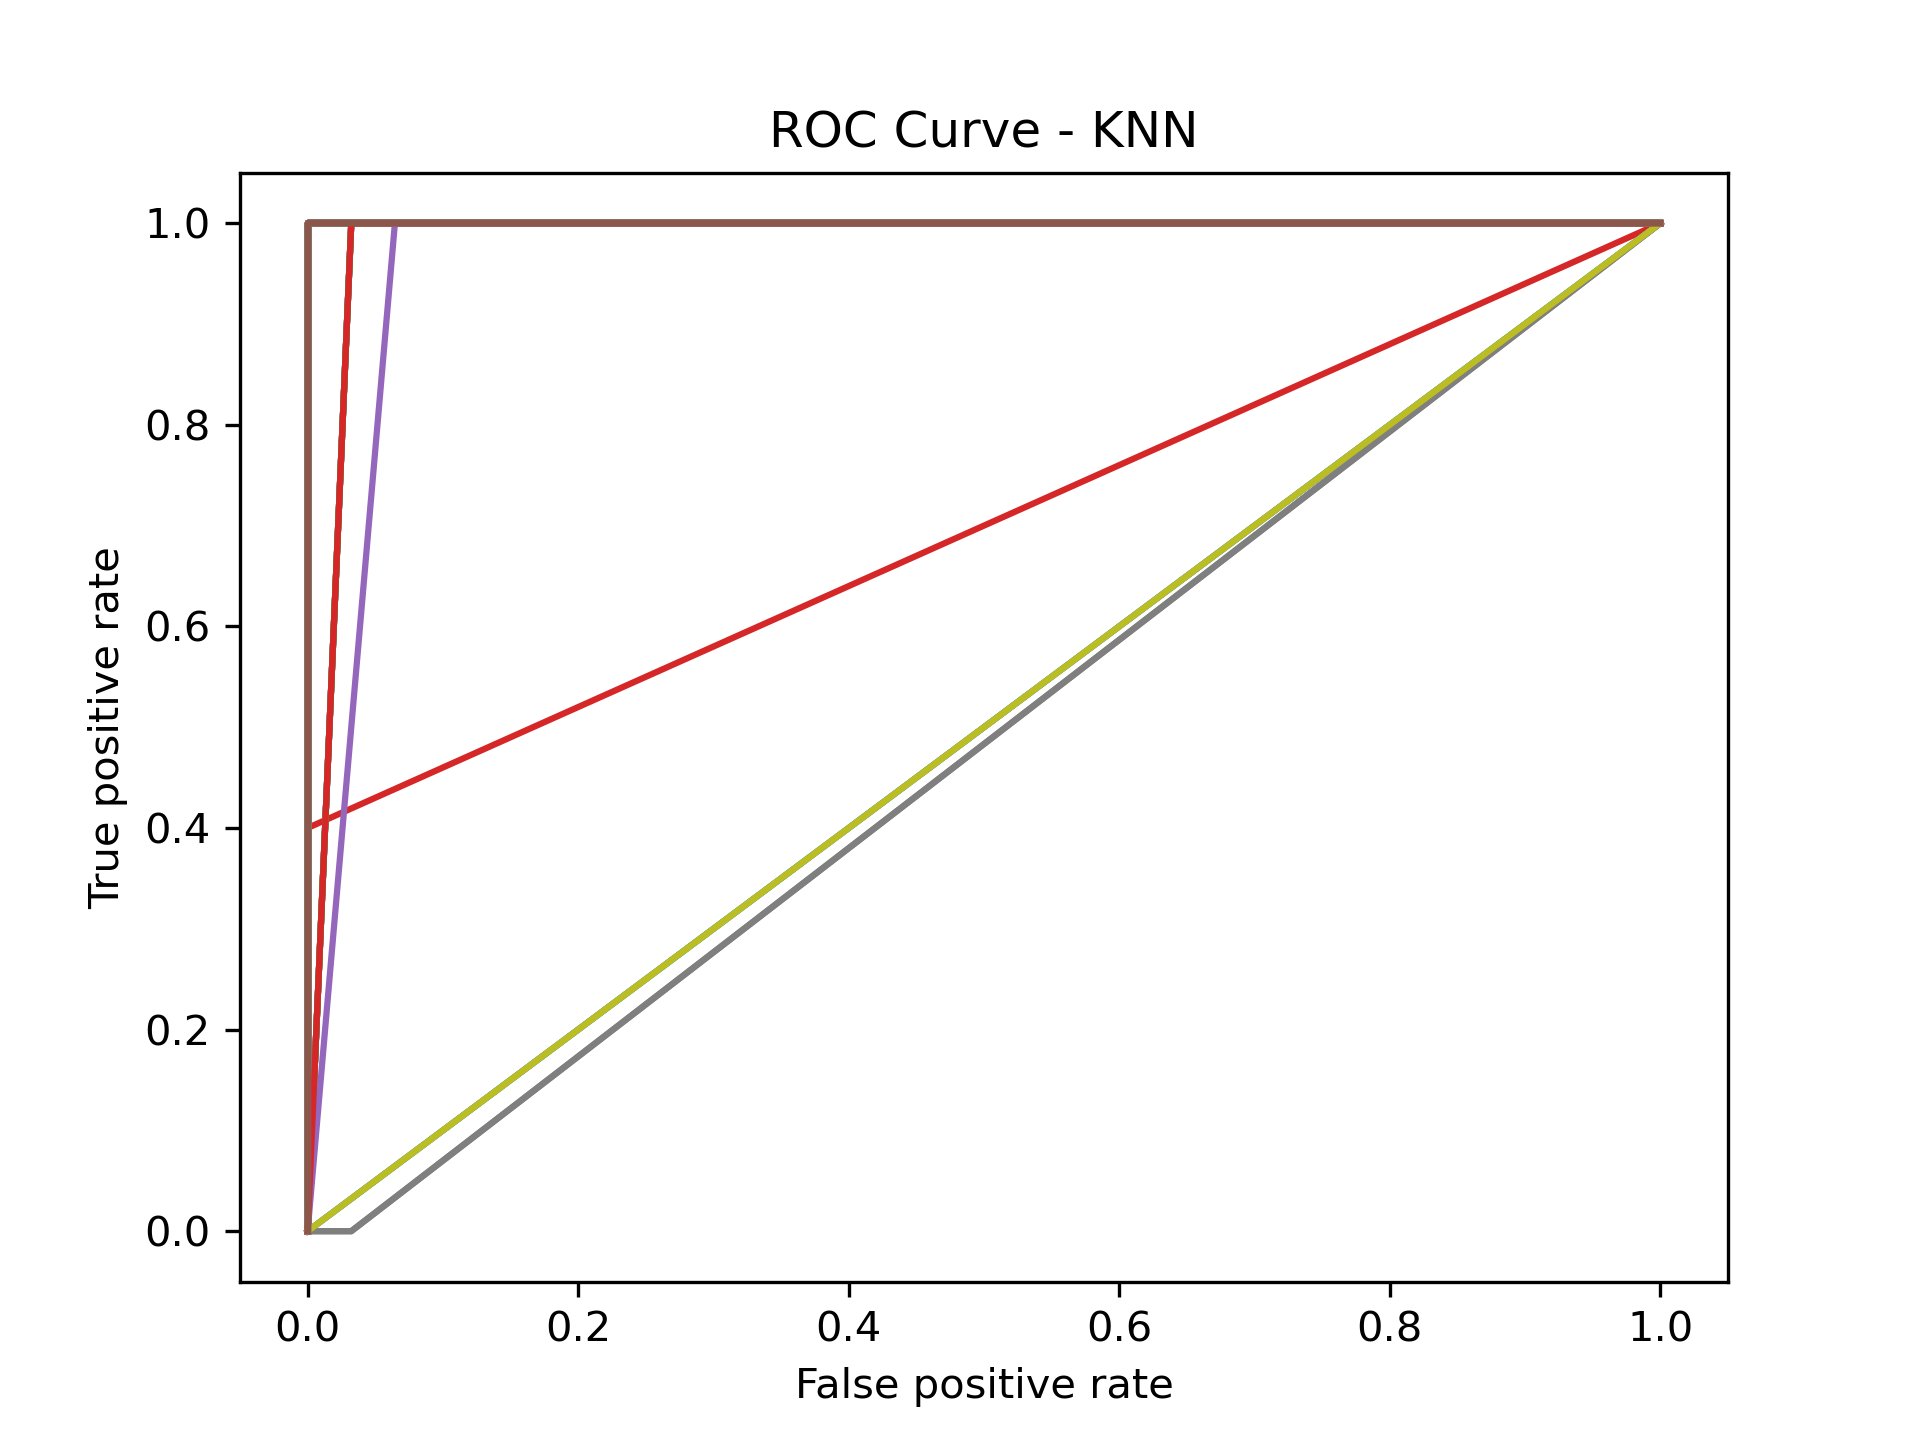
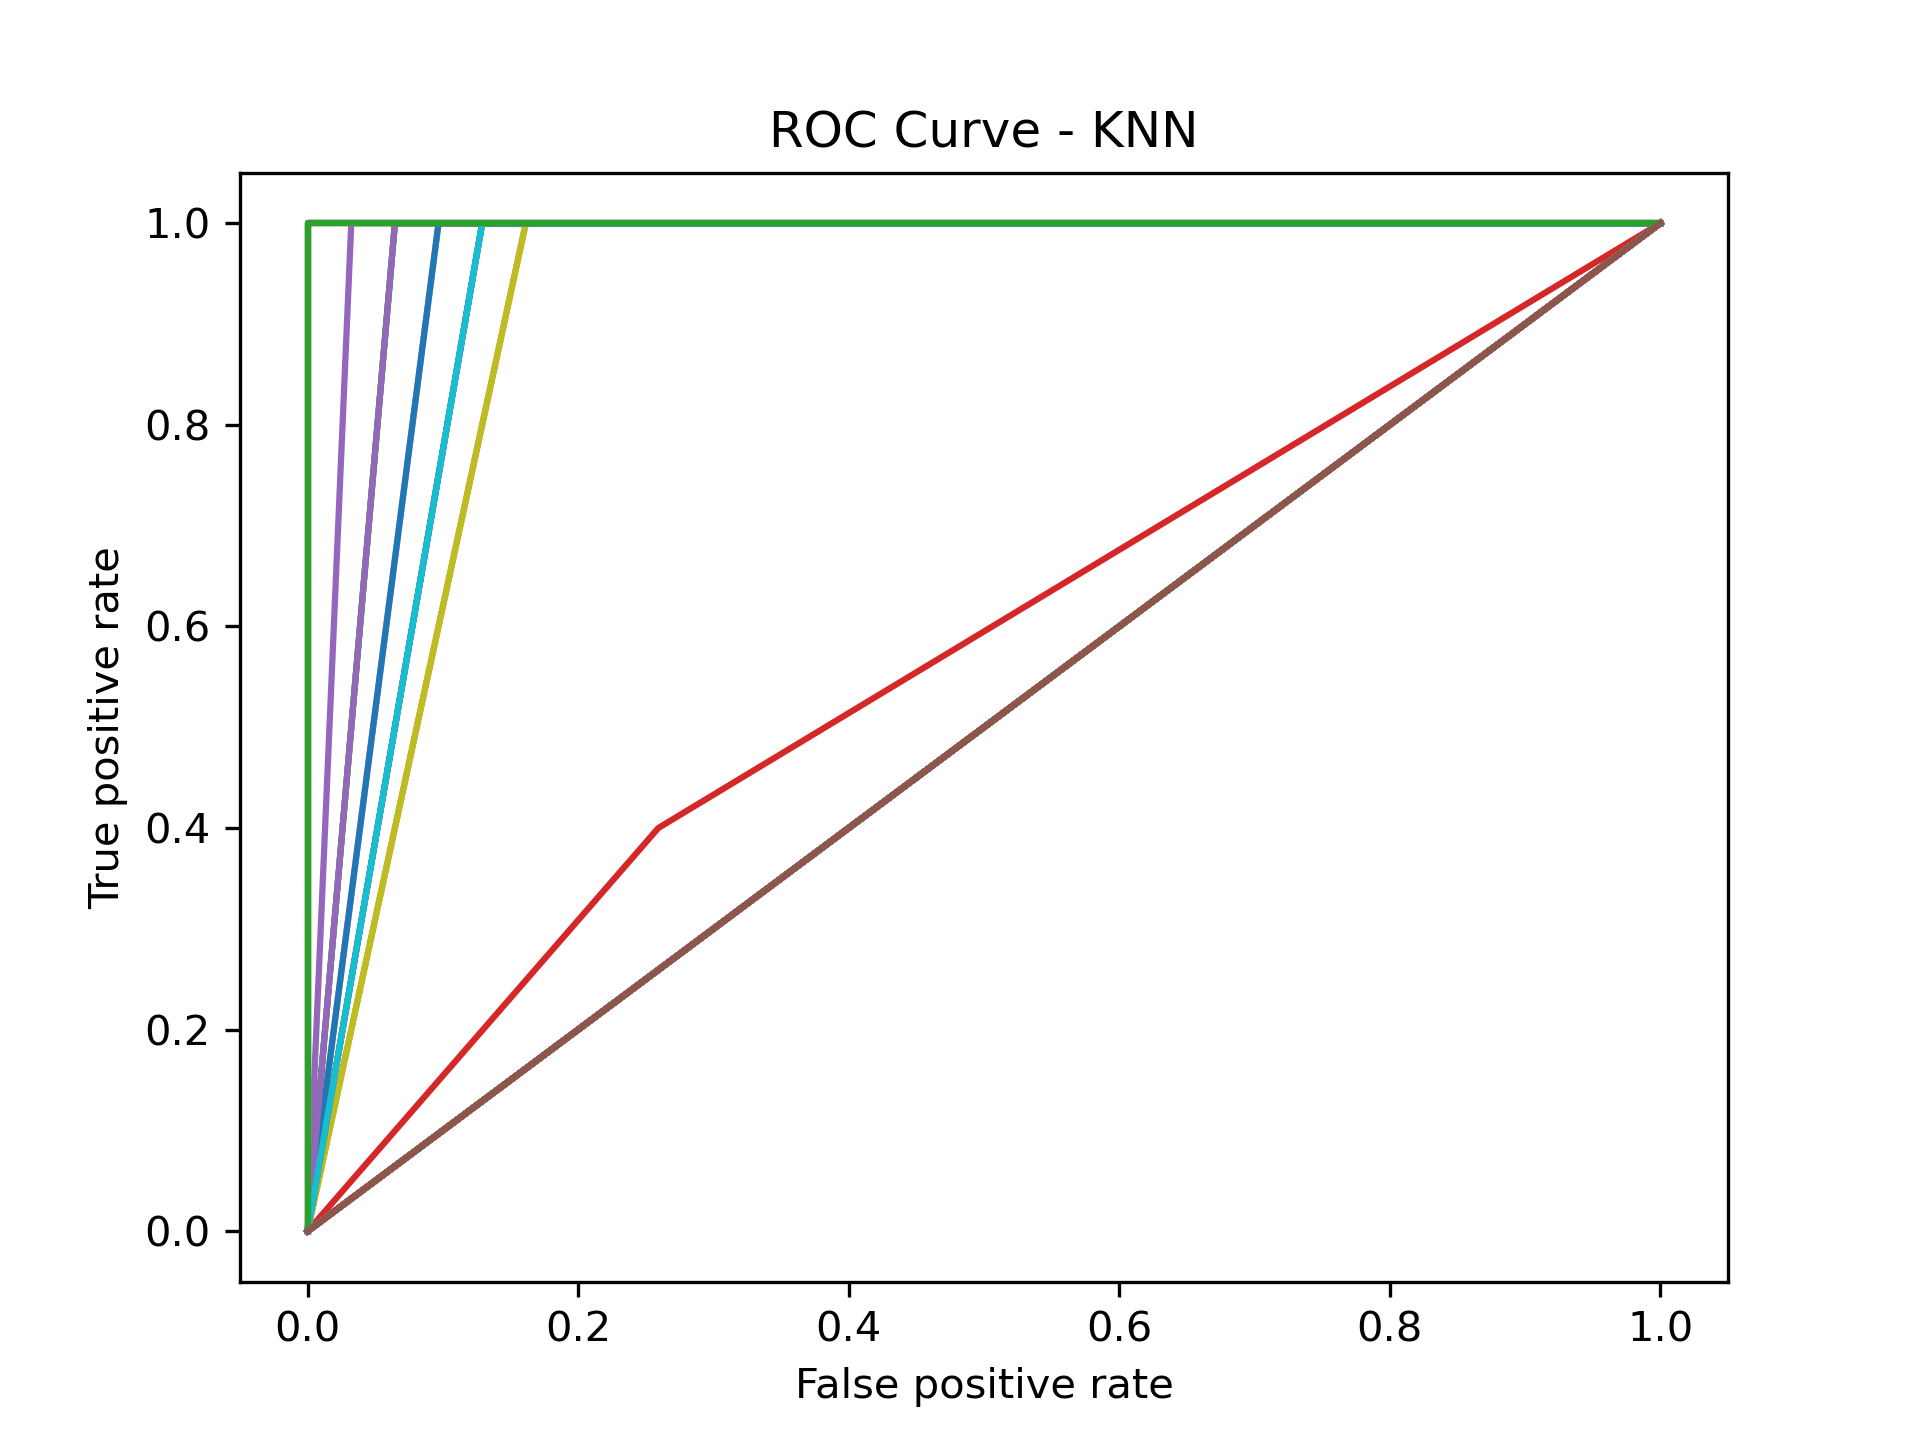
update average ROC-AUC value

diff --git a/detectFace.py b/detectFace.py
@@ -13,7 +13,6 @@ from sklearn.svm import SVC
 
 face_cascade = cv2.CascadeClassifier('haarcascade_frontalface_default.xml')
 
-
 # load images from folder to array
 def read_images_from_folder(folder):
     image_list = []
@@ -156,13 +155,19 @@ def analysis_report(test, prediction, model_name):
     print(f"Macro Recall : {metrics.recall_score(test, prediction, zero_division=0, average='weighted')}")
     print(f"Macro f1 score : {metrics.f1_score(test, prediction, zero_division=0, average='weighted')}")
     print(f"Classification report : {metrics.classification_report(test, prediction, zero_division=0)}")
-    print(roc_auc_score_multiclass(test, prediction, model_name))
+    aucroc_score = roc_auc_score_multiclass(test, prediction, model_name)
+    avg_aucroc_score = 0
+    count = 0
+    for p in aucroc_score:
+        avg_aucroc_score += aucroc_score[p]
+        count += 1
+    print(f"Average AUC-ROC score: {avg_aucroc_score/count:0.2f}")
 
 
 if __name__ == '__main__':
     start_time = time.perf_counter()
     print("[INFO] Loading training data...")
-    data, labels = read_images_from_folder("train")
+    data, labels = read_images_from_folder("tilted")
     adjusted_data = data - data.mean(axis=1, keepdims=True)
     covariance_matrix = np.cov(adjusted_data)
 
